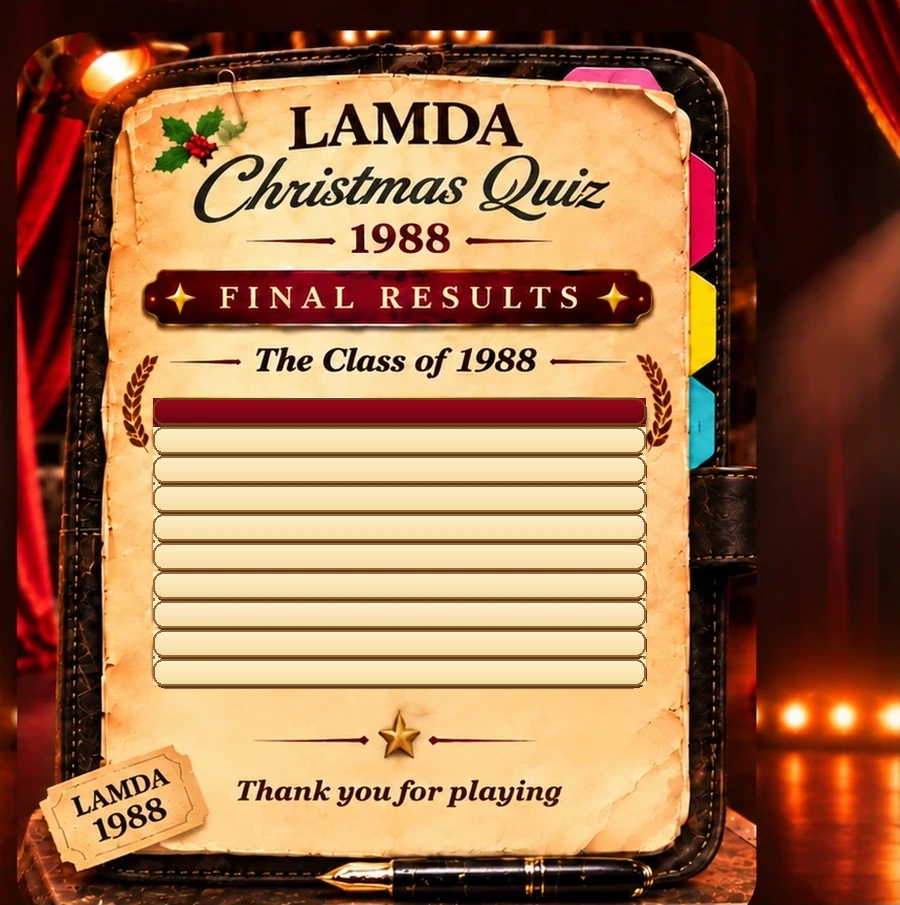
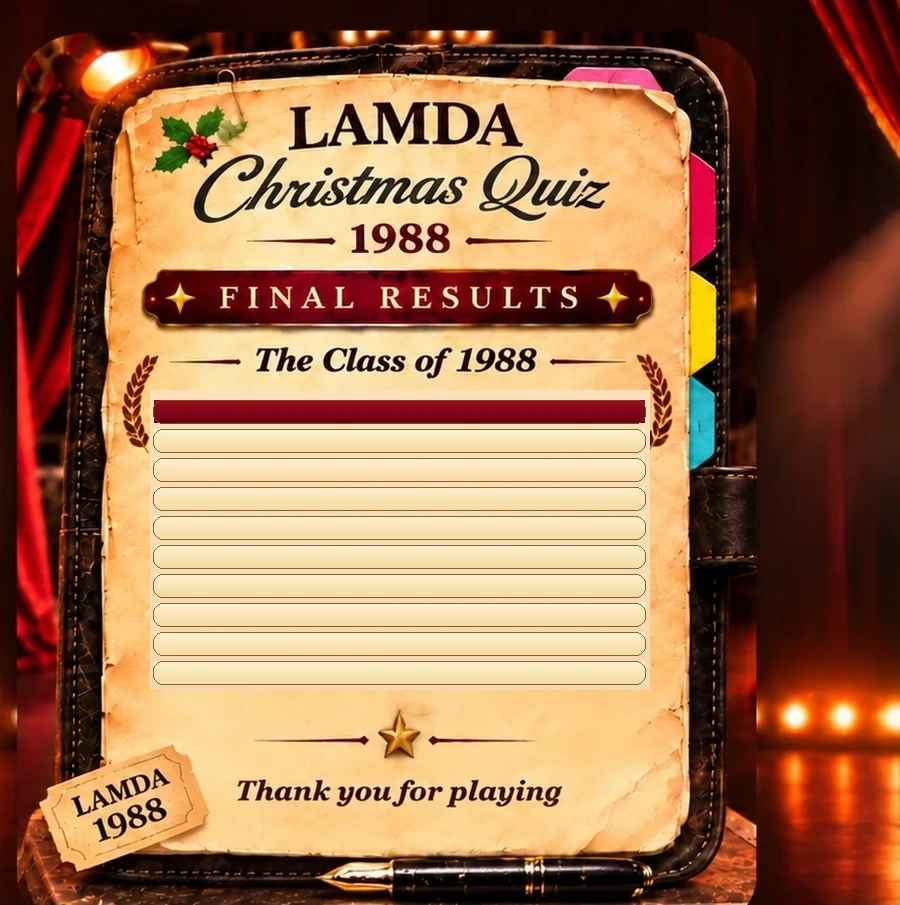
Add files via upload

Changed region(s): [[0.1556, 0.4331, 0.7467, 0.7735]]

diff --git a/index.html b/index.html
@@ -826,6 +826,246 @@ button:disabled{opacity:.5;cursor:not-allowed}
   }
 }
 
+
+/* FINAL PLAYER RESULTS LAYOUT — image aspect ratio is preserved; no background cover cropping. */
+.player-results-screen{
+  position:relative !important;
+  width:100% !important;
+  height:100vh !important;
+  height:100svh !important;
+  height:100dvh !important;
+  min-height:0 !important;
+  overflow:hidden !important;
+  display:flex !important;
+  align-items:center !important;
+  justify-content:center !important;
+  background:
+    radial-gradient(ellipse at 50% 45%,#38140f 0%,#210b0b 56%,#100609 100%) !important;
+}
+.player-results-board{
+  position:relative;
+  flex:none;
+  overflow:visible;
+}
+.player-results-board-desktop{
+  display:block;
+  width:min(100vw,175vh);
+  width:min(100vw,175dvh);
+  aspect-ratio:1659 / 948;
+  max-height:100dvh;
+}
+.player-results-board-mobile{display:none}
+.player-results-art{
+  position:absolute;
+  inset:0;
+  display:block;
+  width:100%;
+  height:100%;
+  object-fit:fill;
+}
+.player-results-list{
+  position:absolute !important;
+  box-sizing:border-box !important;
+  left:35.08% !important;
+  top:42.72% !important;
+  width:28.69% !important;
+  height:26.16% !important;
+  display:grid !important;
+  grid-template-columns:minmax(0,1fr) !important;
+  grid-template-rows:none !important;
+  grid-auto-flow:row !important;
+  grid-auto-rows:20% !important;
+  gap:0 !important;
+  align-content:start !important;
+  overflow-x:hidden !important;
+  overflow-y:auto !important;
+  overscroll-behavior:contain;
+  -webkit-overflow-scrolling:touch;
+  scrollbar-width:thin;
+  scrollbar-color:rgba(104,55,24,.55) transparent;
+  list-style:none !important;
+  padding:0 !important;
+  margin:0 !important;
+}
+.player-results-list li{
+  box-sizing:border-box !important;
+  display:grid !important;
+  grid-template-columns:9% minmax(0,1fr) auto !important;
+  align-items:center !important;
+  min-height:0 !important;
+  height:auto !important;
+  max-height:none !important;
+  margin:0 !important;
+  padding:0 3% !important;
+  overflow:hidden !important;
+  background:none !important;
+  border:0 !important;
+  box-shadow:none !important;
+  color:#4b2414 !important;
+  font:700 clamp(10px,1.05vw,19px)/1 Georgia,'Times New Roman',serif !important;
+  white-space:nowrap !important;
+}
+.player-results-list li:first-child{
+  color:#fff0cb !important;
+  font-weight:800 !important;
+}
+.player-results-list .results-player{
+  min-width:0 !important;
+  overflow:hidden !important;
+  text-overflow:ellipsis !important;
+  white-space:nowrap !important;
+}
+.player-results-list .results-points{
+  white-space:nowrap !important;
+  text-align:right !important;
+  font-size:.9em !important;
+}
+@media(max-width:700px) and (orientation:portrait){
+  .player-results-screen{
+    background:radial-gradient(ellipse at 50% 45%,#38140f 0%,#210b0b 58%,#100609 100%) !important;
+  }
+  .player-results-board-desktop{display:none !important}
+  .player-results-board-mobile{
+    display:block !important;
+    width:min(100vw,72dvh);
+    aspect-ratio:900 / 905;
+    max-height:100dvh;
+  }
+  .player-results-list-mobile{
+    left:10.4% !important;
+    top:34.0% !important;
+    width:82.3% !important;
+    height:33.7% !important;
+    grid-auto-rows:10% !important;
+  }
+  .player-results-list-mobile li{
+    font-size:clamp(9px,2.45vw,14px) !important;
+    padding:0 2.5% !important;
+  }
+}
+@media(max-width:700px) and (orientation:landscape){
+  .player-results-board-desktop{
+    display:block !important;
+    width:min(100vw,175dvh);
+    max-height:100dvh;
+  }
+  .player-results-board-mobile{display:none !important}
+  .player-results-list-desktop li{
+    font-size:clamp(9px,1.9vw,14px) !important;
+  }
+}
+
+
+/* FINAL CONTESTANT RESULTS — one undistorted Filofax, clean stage background, single live leaderboard. */
+.player-results-screen{
+  position:relative !important;
+  width:100% !important;
+  height:100vh !important;
+  height:100svh !important;
+  height:100dvh !important;
+  min-height:0 !important;
+  overflow:hidden !important;
+  display:flex !important;
+  align-items:center !important;
+  justify-content:center !important;
+  background:#16070a url("assets/571f7acb7d9b.webp") center center / cover no-repeat !important;
+}
+.player-results-board{
+  position:relative !important;
+  flex:none !important;
+  width:min(86dvh,48vw) !important;
+  aspect-ratio:900 / 905 !important;
+  max-height:94dvh !important;
+  overflow:visible !important;
+}
+.player-results-art{
+  position:absolute !important;
+  inset:0 !important;
+  display:block !important;
+  width:100% !important;
+  height:100% !important;
+  object-fit:contain !important;
+  object-position:center !important;
+}
+.player-results-list{
+  position:absolute !important;
+  box-sizing:border-box !important;
+  left:10.4% !important;
+  top:44.2% !important;
+  width:82.3% !important;
+  height:32.1% !important;
+  display:grid !important;
+  grid-template-columns:minmax(0,1fr) !important;
+  grid-template-rows:none !important;
+  grid-auto-flow:row !important;
+  grid-auto-rows:10% !important;
+  gap:0 !important;
+  align-content:start !important;
+  overflow-x:hidden !important;
+  overflow-y:auto !important;
+  overscroll-behavior:contain !important;
+  -webkit-overflow-scrolling:touch;
+  scrollbar-width:thin;
+  scrollbar-color:rgba(104,55,24,.45) transparent;
+  list-style:none !important;
+  padding:0 !important;
+  margin:0 !important;
+}
+.player-results-list li{
+  box-sizing:border-box !important;
+  display:grid !important;
+  grid-template-columns:9% minmax(0,1fr) auto !important;
+  align-items:center !important;
+  min-height:0 !important;
+  height:auto !important;
+  max-height:none !important;
+  margin:0 !important;
+  padding:0 2.5% !important;
+  overflow:hidden !important;
+  background:none !important;
+  border:0 !important;
+  box-shadow:none !important;
+  color:#4b2414 !important;
+  font:700 clamp(10px,1.35vw,17px)/1 Georgia,'Times New Roman',serif !important;
+  white-space:nowrap !important;
+}
+.player-results-list li:first-child{
+  color:#fff0cb !important;
+  font-weight:800 !important;
+}
+.player-results-list .results-player{
+  min-width:0 !important;
+  overflow:hidden !important;
+  text-overflow:ellipsis !important;
+  white-space:nowrap !important;
+}
+.player-results-list .results-points{
+  white-space:nowrap !important;
+  text-align:right !important;
+  font-size:.9em !important;
+}
+@media(max-width:700px) and (orientation:portrait){
+  .player-results-screen{
+    background-position:center center !important;
+    background-size:cover !important;
+  }
+  .player-results-board{
+    width:min(100vw,58dvh) !important;
+    max-height:94dvh !important;
+  }
+  .player-results-list li{
+    font-size:clamp(9px,2.6vw,13px) !important;
+  }
+}
+@media(max-width:700px) and (orientation:landscape){
+  .player-results-board{
+    width:min(86dvh,72vw) !important;
+  }
+  .player-results-list li{
+    font-size:clamp(9px,1.8vw,13px) !important;
+  }
+}
+
 </style>
 </head>
 <body>
@@ -1081,7 +1321,12 @@ function renderGame(){
   const resultsList=(game.scores||[]).map((x,i)=>`<li class="${i===0?'results-winner':''}"><span class="results-place">${i+1}.</span><span class="results-player">${escapeHtml(x.name)}</span><strong class="results-points">${x.score} ${x.score===1?'point':'points'}</strong></li>`).join('');
   app.innerHTML=isHost
    ? `<section class="results-art-screen"><div class="results-art-stage" role="region" aria-label="LAMDA Christmas Quiz final results"><ol class="results-live-list" tabindex="0" aria-label="Final scores">${resultsList}</ol><button class="results-reset-hit" onclick="pressedAction(this,resetLobby)" aria-label="Reset for a new game"></button></div></section>`
-   : `<section class="player-results-screen" role="region" aria-label="Your final quiz results"><ol class="player-results-list" tabindex="0" aria-label="Final scores">${resultsList}</ol></section>`;
+   : `<section class="player-results-screen" role="region" aria-label="Your final quiz results">
+       <div class="player-results-board">
+         <img class="player-results-art" src="assets/player-results-portrait.webp" alt="">
+         <ol class="player-results-list" tabindex="0" aria-label="Final scores">${resultsList}</ol>
+       </div>
+     </section>`;
   return;
  }
  if(game.phase!=='started')return isHost?renderHost():renderLobby();
